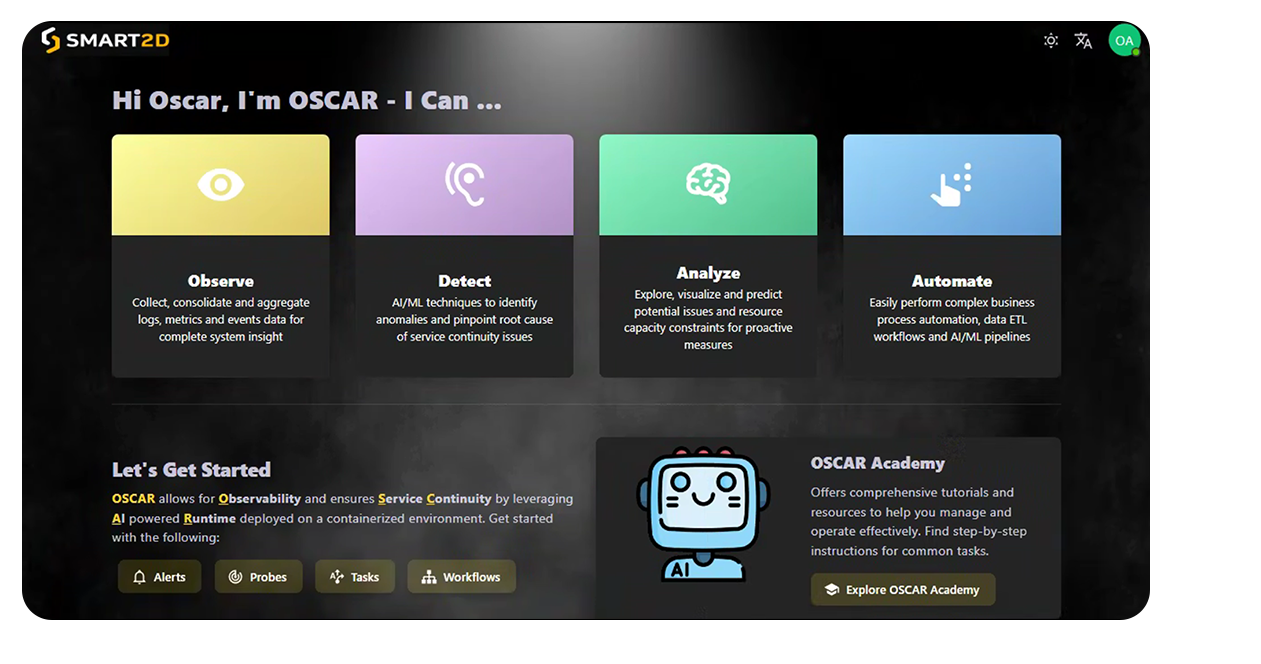
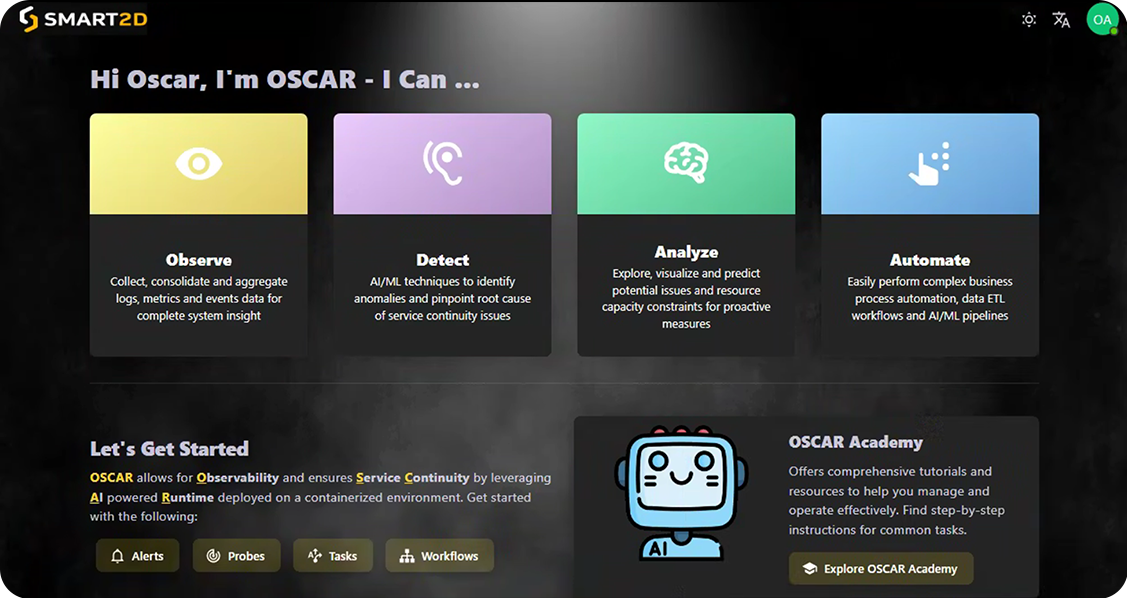
style(oscar): rognage physique définitif de l'image pour supprimer les marges blanches internes

diff --git a/app/solutions/solutions-content.tsx b/app/solutions/solutions-content.tsx
@@ -162,13 +162,13 @@ export function SolutionsContent() {
             </div>
 
             {/* Droite — Screenshot page accueil OSCAR (7 colonnes sur 12) */}
-            <div className="lg:col-span-7 rounded-2xl overflow-hidden shadow-xl border border-[#E5E0DC] cursor-zoom-in transition-transform duration-500 ease-out hover:scale-[1.03] self-center">
+            <div className="lg:col-span-7 self-center transition-transform duration-500 ease-out hover:scale-110 cursor-zoom-in">
               <Image
                 src="/images/oscar/oscar-app.png"
                 alt="Page d'accueil OSCAR — Observe, Detect, Analyze, Automate"
-                width={900}
-                height={560}
-                className="w-full h-auto"
+                width={1127}
+                height={598}
+                className="w-full h-auto block rounded-2xl shadow-xl"
               />
             </div>
           </motion.div>
